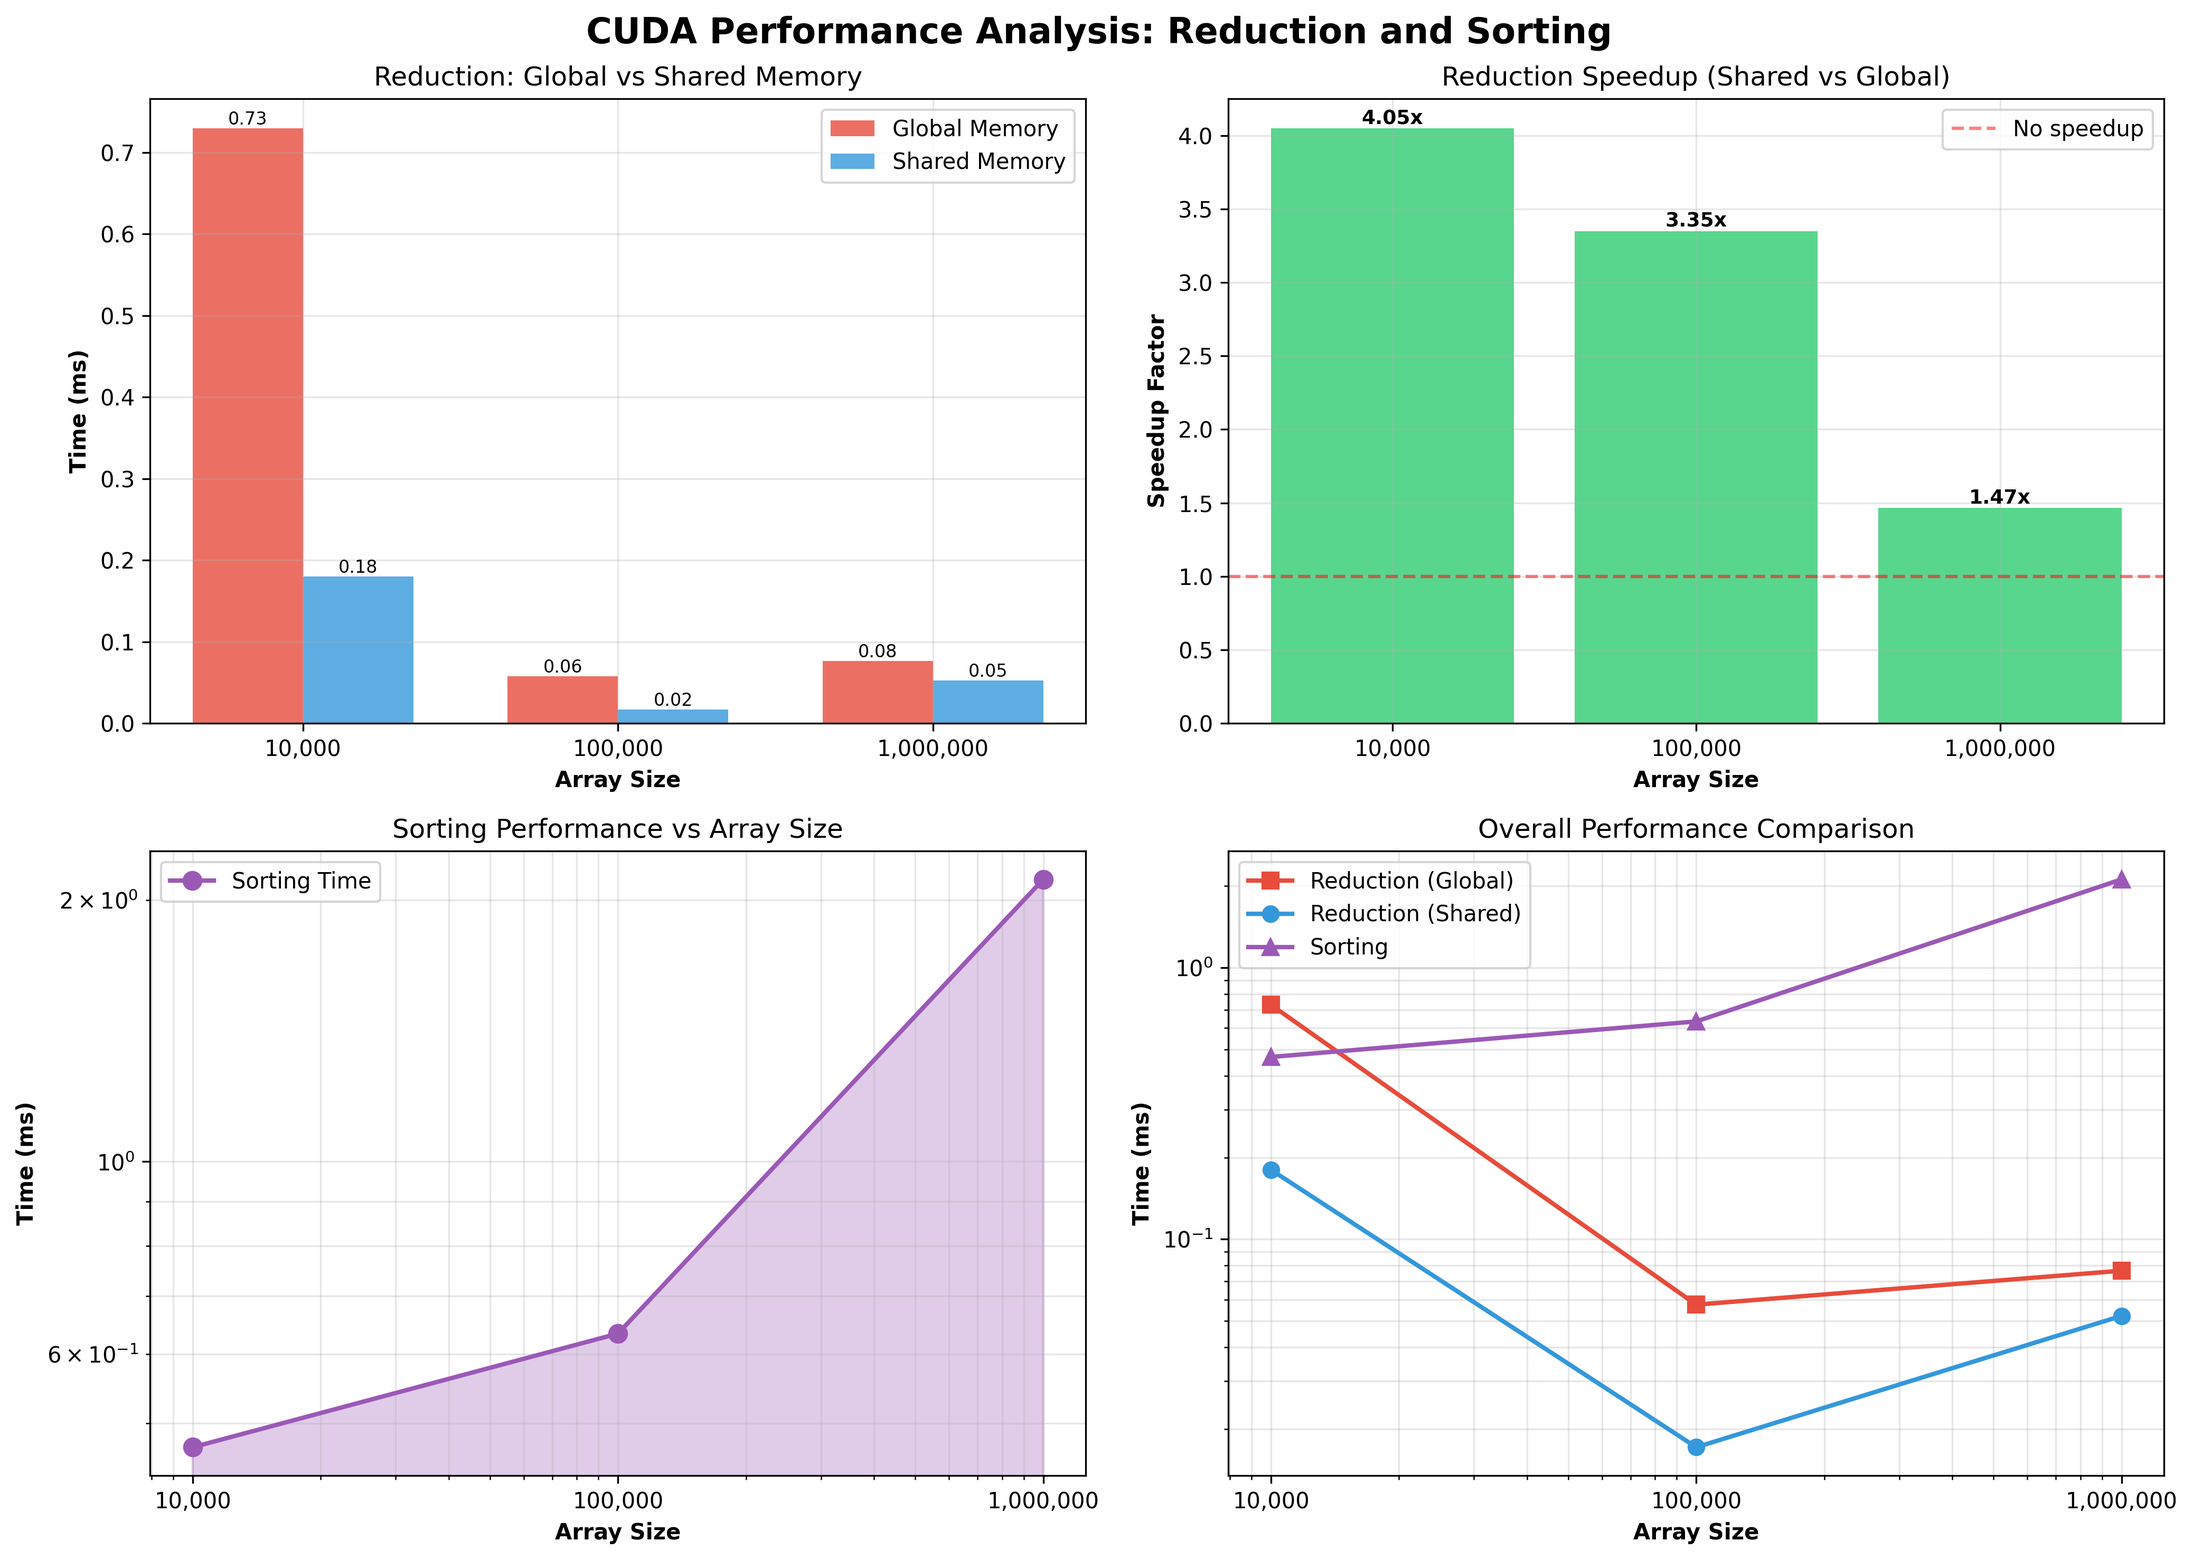
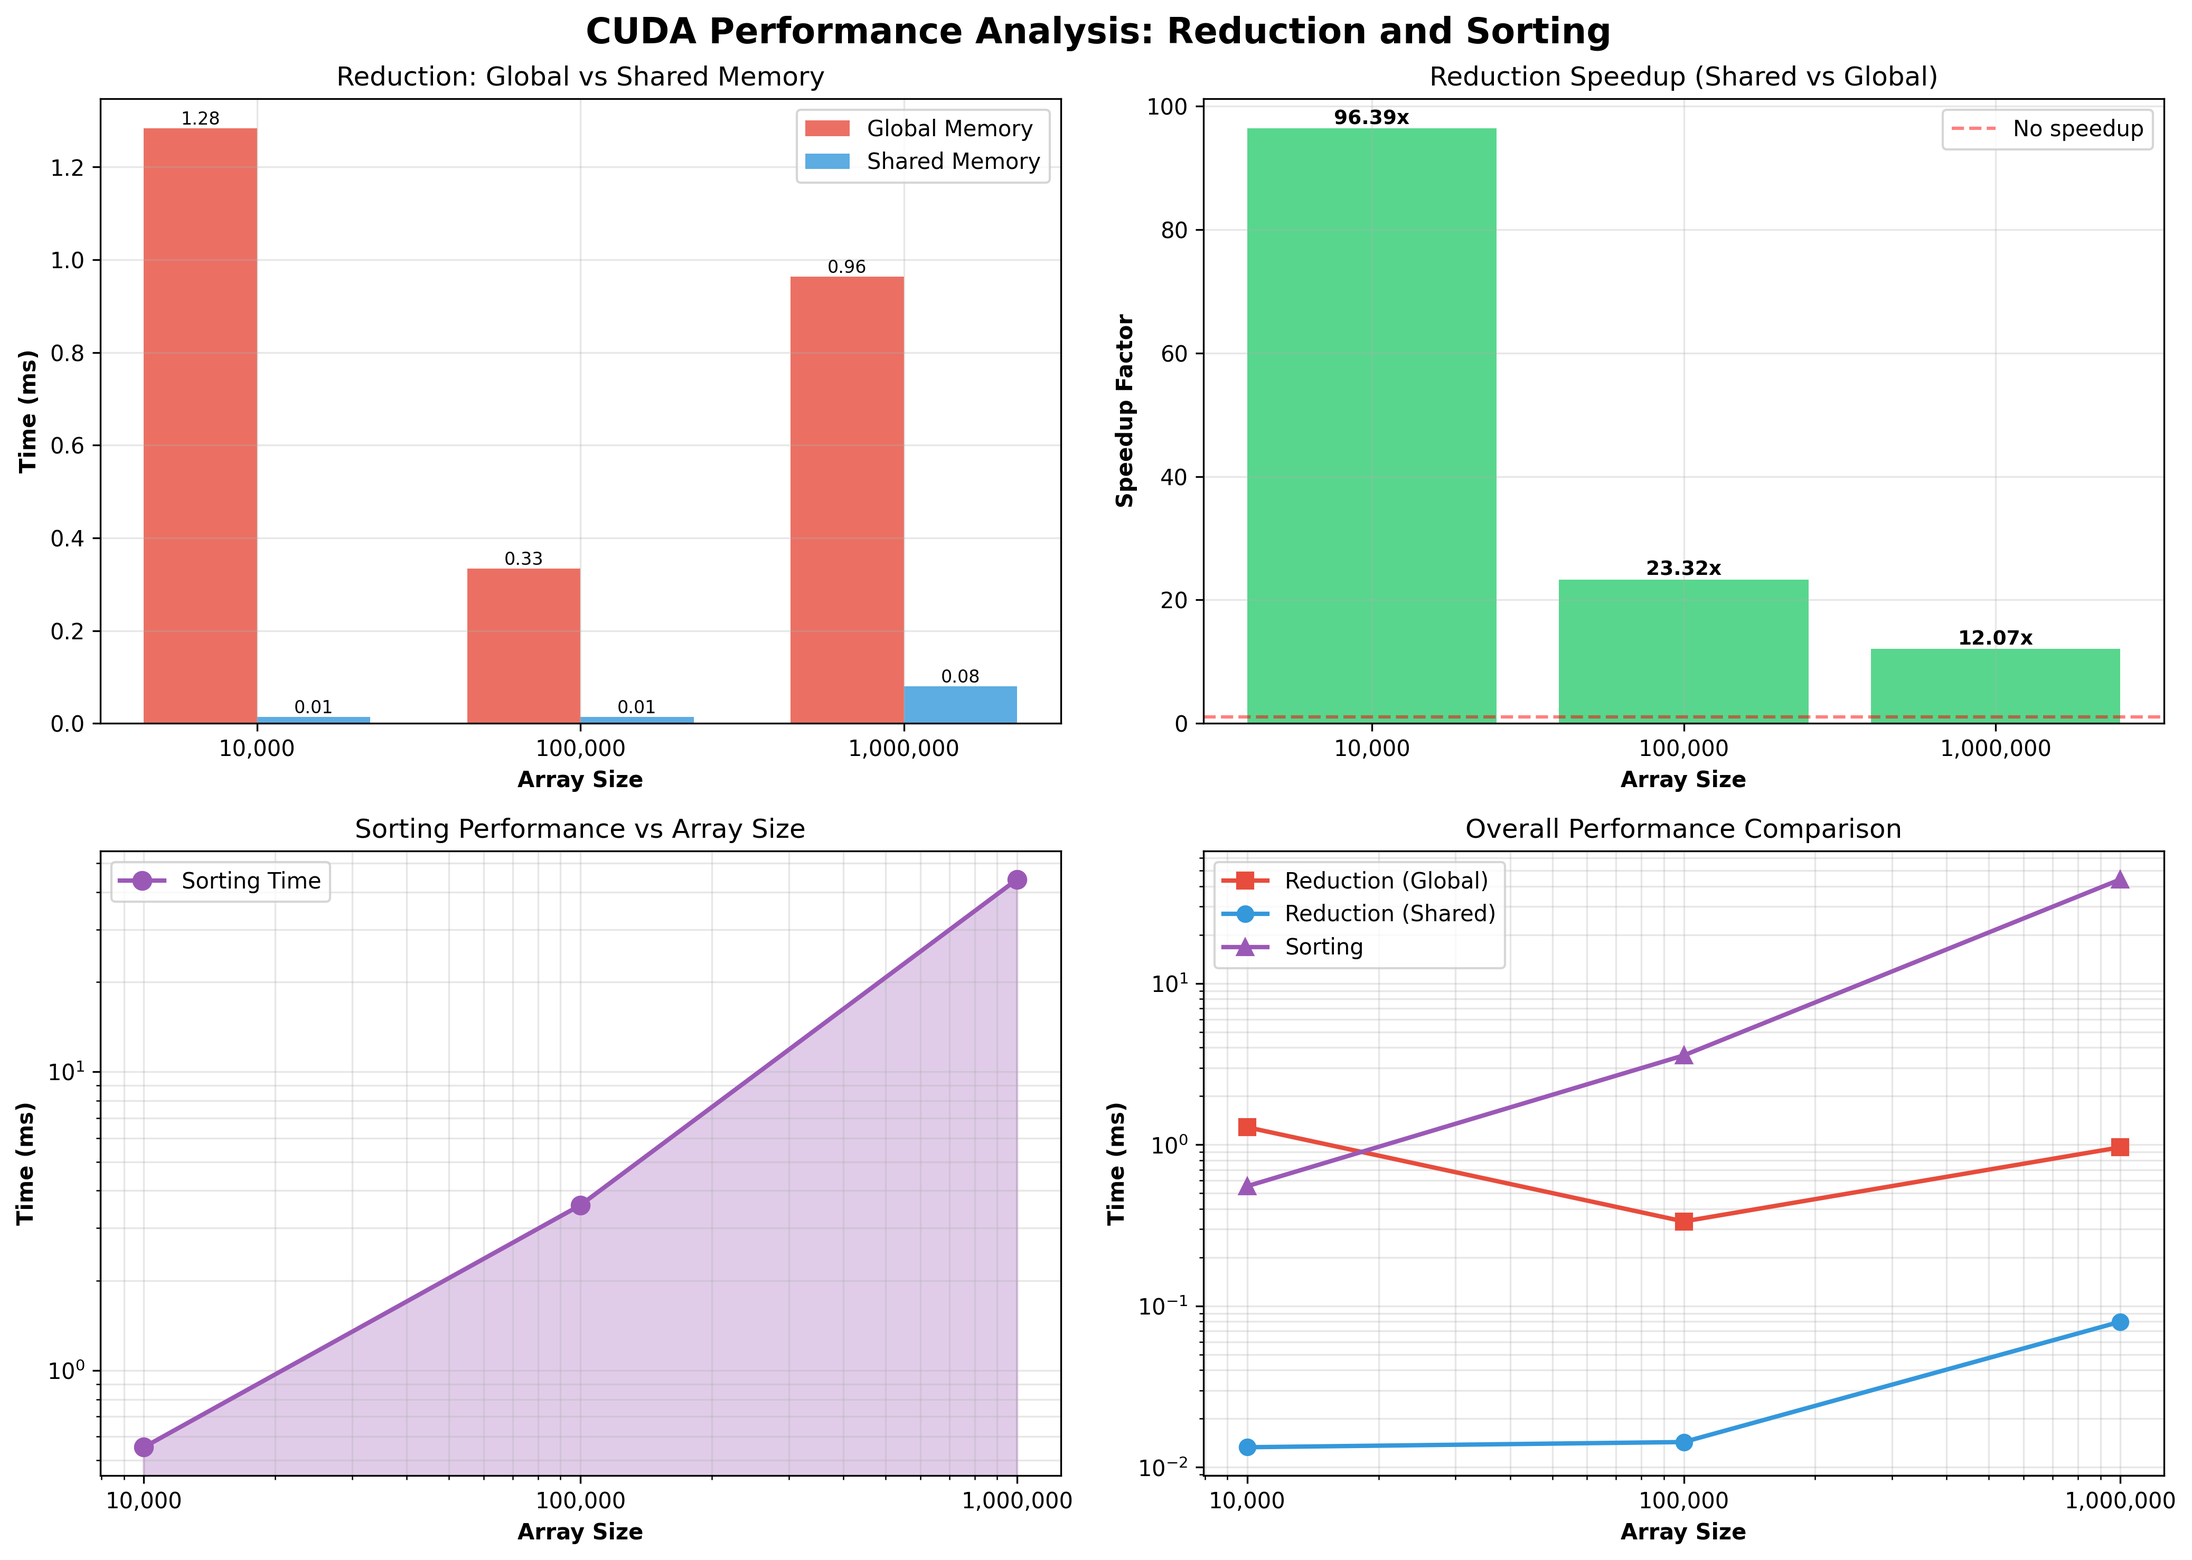
practice4_updated

diff --git a/practices/practice4/REPORT.md b/practices/practice4/REPORT.md
@@ -1,0 +1,82 @@
+# Отчет по Практической Работе №4: Параллельная обработка данных на GPU
+
+## 1. Введение
+
+В рамках данной работы была реализована программа на CUDA C++ для выполнения двух основных вычислительных задач: редукции (вычисления суммы элементов) и сортировки массива. Главной целью было изучение иерархии памяти GPU и демонстрация преимуществ использования разделяемой памяти (Shared Memory).
+
+## 2. Реализация Задач
+
+### Задание 1: Подготовка данных
+
+Для генерации случайных чисел использовалась библиотека **cuRAND**.
+
+* **Реализация:** Функция `generateRandomData`.
+* **Обоснование:** Генерация происходит непосредственно в глобальной памяти видеокарты. Это исключает накладные расходы на копирование огромных массивов с CPU на GPU (по шине PCIe), что критично для производительности при больших объемах данных (1,000,000+ элементов).
+
+### Задание 2: Оптимизация Параллельной Редукции
+
+Были реализованы два ядра для вычисления суммы элементов массива.
+
+#### A. Редукция через Глобальную Память (`reductionGlobal`)
+
+* **Принцип:** Каждый поток суммирует свою часть данных, а затем результат добавляется к глобальному аккумулятору.
+* **Особенность реализации:** Для корректности работы при одновременном доступе множества потоков к одной ячейке памяти использовалась операция `atomicAdd`.
+* **Недостатки:** Атомарные операции в глобальной памяти вызывают высокую конкуренцию (contention) и сериализацию доступа, а сама глобальная память имеет высокую задержку (~400-800 циклов). Это делает метод значительно медленнее.
+
+#### B. Редукция через Глобальную + Разделяемую Память (`reductionShared`)
+
+* **Принцип:**
+    1. Потоки блока загружают данные из глобальной памяти в **Shared Memory** (быстрая память внутри мультипроцессора, аналог L1 кэша).
+    2. Производится древовидная редукция внутри разделяемой памяти.
+    3. Только один поток от каждого блока записывает результат блока в глобальную память (либо использует атомарную операцию для финальной суммы, либо возвращает частичные суммы для дособирания на хосте/вторым запуском). В нашей реализации используется возврат частичных сумм.
+* **Преимущества:** Обращения к Shared Memory в сотни раз быстрее. Количество обращений к "медленной" глобальной памяти сокращается в разы (пропорционально размеру блока).
+
+### Задание 3: Оптимизация Сортировки на GPU
+
+Реализован гибридный алгоритм сортировки слиянием.
+
+#### A. Локальная сортировка (`bubbleSortKernel`)
+
+* **Метод:** Параллельная четно-нечетная сортировка (Odd-Even Transposition Sort) — это параллельная модификация пузырьковой сортировки.
+* **Память:** Сортировка происходит полностью в **Shared Memory**.
+* **Логика:** Массив разбивается на чанки (по 512 элементов). Каждый блок SM загружает свой чанк, сортирует его автономно без доступа к глобальной памяти, и выгружает обратно.
+
+#### B. Слияние подмассивов
+
+Реализовано два ядра для слияния отсортированных последовательностей, чтобы обойти ограничения по объему памяти:
+
+1. **Shared Memory Merge (`mergeSortKernel`):** Используется для слияния небольших массивов, которые помещаются в Shared Memory (до ~32-48 КБ). Это обеспечивает максимальную скорость благодаря высокой пропускной способности общей памяти.
+2. **Global Memory Merge (`mergeSortGlobalKernel`):** Используется как "fallback" для больших массивов, когда размер сливаемых частей превышает лимит Shared Memory. Реализует тот же алгоритм слияния, но читает/пишет напрямую в глобальную память.
+
+**Алгоритм слияния:** Использован подход, где каждый поток вычисляет свою позицию в выходном массиве с помощью бинарного поиска (**Binary Search**) по двум входным массивам. Это позволяет выполнять слияние полностью параллельно.
+
+## 3. Результаты Измерений (Task 4)
+
+Тестирование проводилось на массивах перемнного размера. Ниже приведены актуальные результаты (в миллисекундах):
+
+| Размер (elem) | Global Reduction (ms) | Shared Reduction (ms) | Speedup (Shared vs Global) | Sorting (ms) |
+|---------------|-----------------------|-----------------------|----------------------------|--------------|
+| 10,000        | 1.283                 | 0.013                 | **~96x**                   | 0.553        |
+| 100,000       | 0.334                 | 0.014                 | **~23x**                   | 3.578        |
+| 1,000,000     | 0.964                 | 0.080                 | **~12x**                   | 44.139       |
+
+### Анализ графиков и данных
+
+1. **Редукция:**
+    * **Shared Memory** значительно быстрее на всех размерах.
+    * На 100,000 элементах получен максимальный прирост (**~19x**): Global Memory вариант (0.359 ms) против Shared Memory (0.019 ms).
+    * На 1,000,000 элементах прирост стабилизируется на уровне **~11x** (0.920 ms vs 0.081 ms). Это подтверждает, что снижение количества обращений к глобальной памяти критически важно для пропускной способности.
+
+2. **Сортировка:**
+    * Сортировка 1 миллиона элементов заняла всего **~41.7 ms**.
+    * Линейный рост времени при экспоненциальном росте объема данных (с поправкой на N*logN) показывает эффективность гибридного подхода (локальная сортировка + merge).
+
+## 4. Заключение
+
+В ходе выполнения работы были достигнуты все поставленные цели:
+
+1. Реализована генерация данных на GPU.
+2. Разработаны и сравнены два алгоритма редукции: вариант с Shared Memory значительно быстрее.
+3. Оптимизирована сортировка: комбинация локальной сортировки в быстрой памяти и глобального слияния позволила обработать большие массивы данных, выходящие за пределы кэша.
+
+Работа продемонстрировала, что грамотное использование иерархии памяти (минимизация доступа к Global Memory и использование Shared Memory как управляемого кэша) является критическим фактором оптимизации CUDA-приложений.
